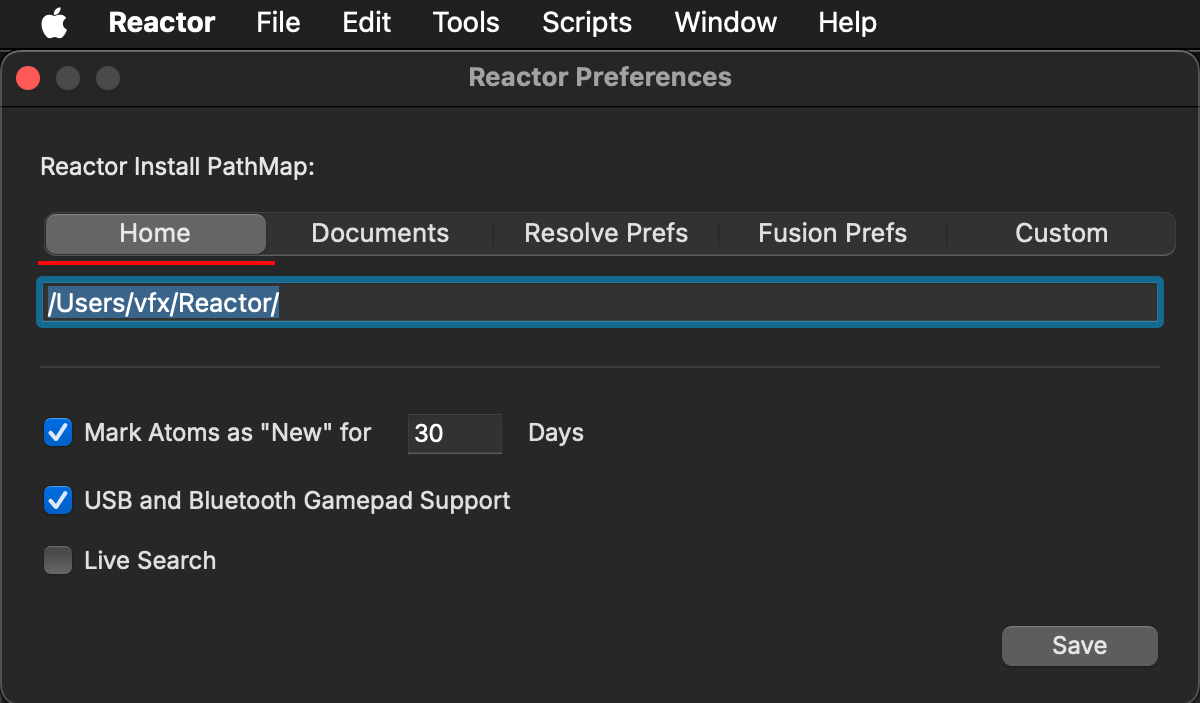
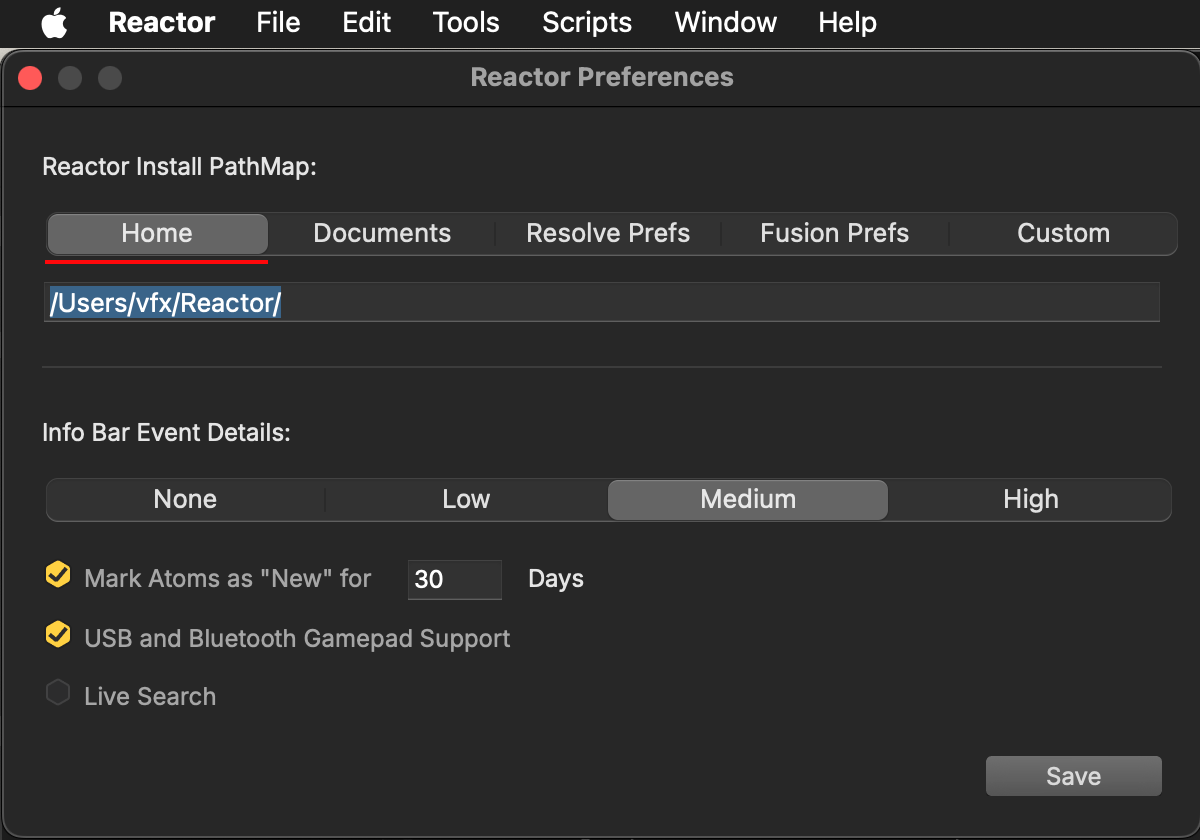
B27

Changed region(s): [[0.0, 0.0, 1.0, 1.0], [0.0, 0.8962, 0.3392, 1.0], [0.8325, 0.5676, 0.8942, 0.6273]]

diff --git a/ChangeLog.md b/ChangeLog.md
@@ -1,5 +1,11 @@
 # Reactor Standalone Change Log
 
+## 2025-09-22 Beta 27 Event Details
+
+The Reactor Standalone preferences window has a new "Info Bar Event Detail" multi-button control. It lets you adjust the logging detail that is output to the Info bar line at the bottom left of the main window, and to the standard IO output in the Terminal session.
+
+You have the option to set the "Info Bar Event Detail" control to "None", "Low", "Medium", and "High". Most generic error messages are set to output logging detail at the "Medium", and "High" state.
+
 ## 2025-09-21 Beta 26
 
 Solved a progress bar flickering issue that occurred when a series of small atom packages were downloading and the progress bar control was hidden/shown

diff --git a/Install.md b/Install.md
@@ -14,9 +14,9 @@ Note: Click on the "Assets" section for the GitHub release to expand the file do
 
 The Assets downloads are separate files per-operating system.  The zip archives have filenames that looks roughly like this:
 
-- reactor-for-linux-x64-v4-beta-26.zip
-- reactor-for-mac-universal-v4-beta-26.zip
-- reactor-for-win-x64-v4-beta-26.zip
+- reactor-for-linux-x64-v4-beta-27.zip
+- reactor-for-mac-universal-v4-beta-27.zip
+- reactor-for-win-x64-v4-beta-27.zip
 
 Note: The version number at the end of the filenames will change over time.
 

diff --git a/README.md b/README.md
@@ -1,6 +1,6 @@
 # Reactor Standalone for Resolve/Fusion
 
-Reactor 4 Beta Build 26 - 2025-09-22  
+Reactor 4 Beta Build 27 - 2025-09-22  
 
 ## Overview
 
